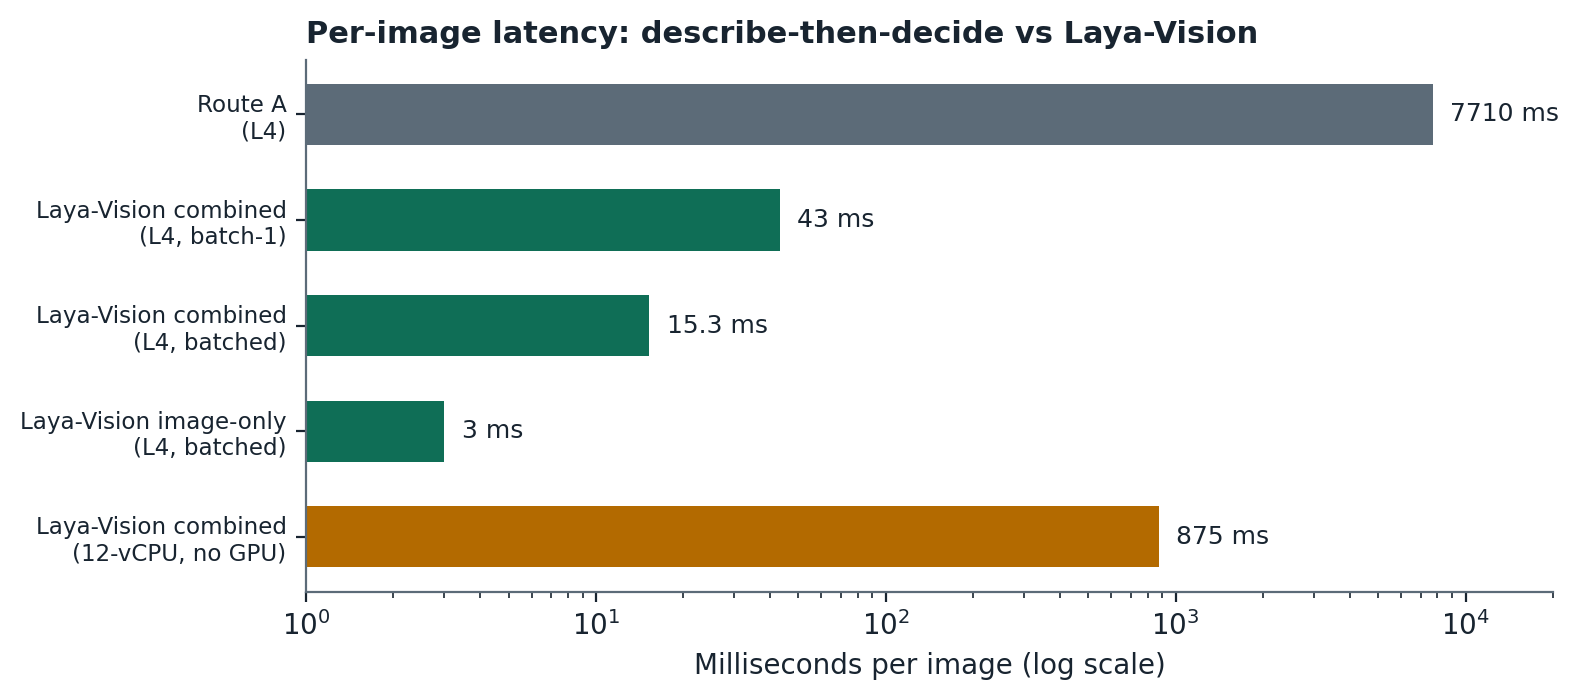
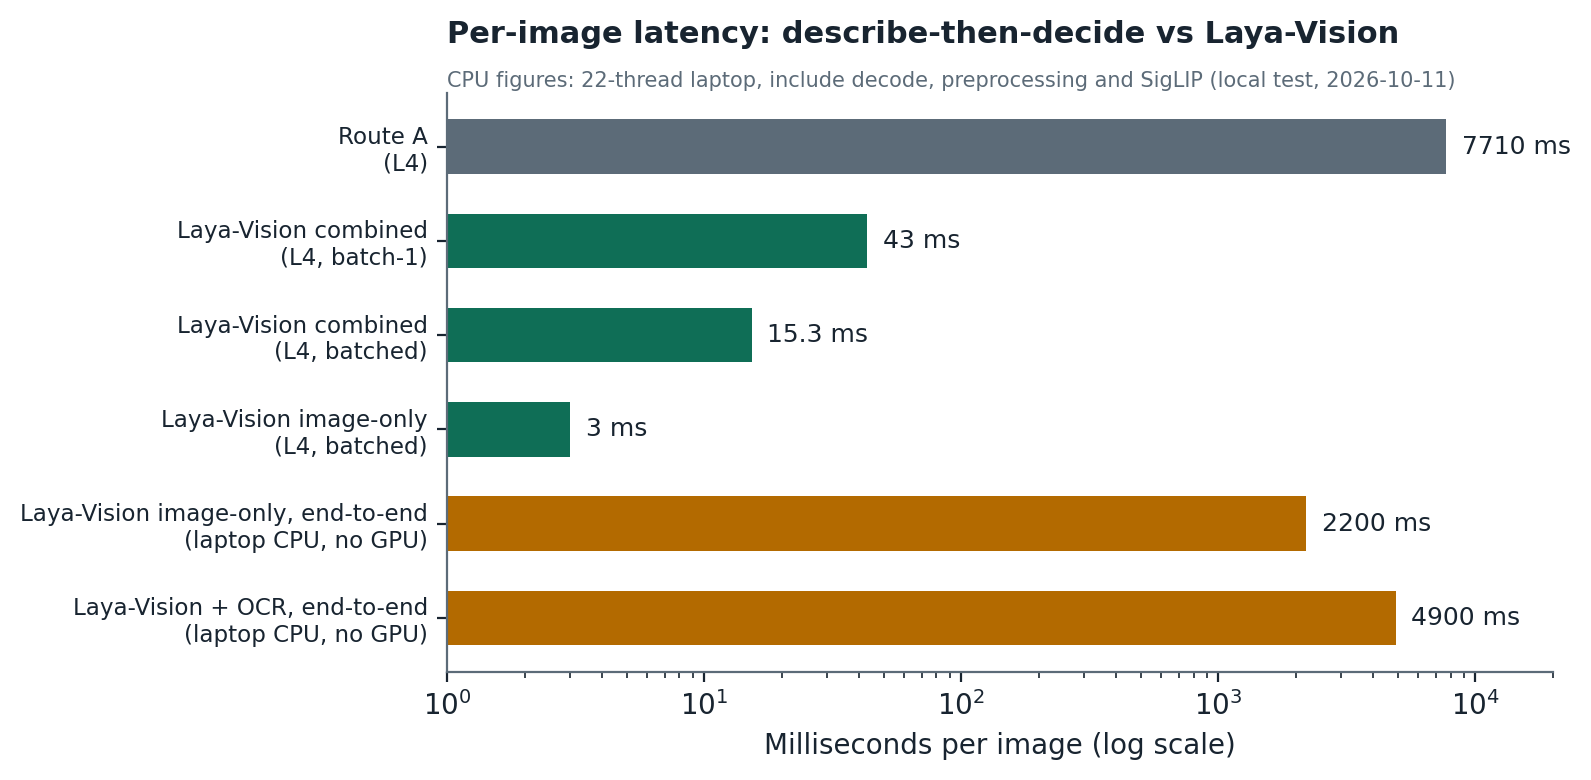
p5: local test recorded, cpu latency corrected, demo flush

diff --git a/scripts/demo.py b/scripts/demo.py
@@ -62,7 +62,7 @@ def main():
         with open(out, encoding="utf-8") as f:
             results = {r["file"]: r for r in json.load(f)["results"] if "doc_type" in r}
     todo = [p for p in files if p.relative_to(folder).as_posix() not in results]
-    print(f"{len(files)} images, {len(files) - len(todo)} already in {out}; classifying {len(todo)}.")
+    print(f"{len(files)} images, {len(files) - len(todo)} already in {out}; classifying {len(todo)}.", flush=True)
 
     agent = VisionAgent(release_dir=args.release, device=args.device)
     questions = agent.doc_type_question()
@@ -78,14 +78,14 @@ def main():
         except ImageError as e:
             errors += 1
             results[rel] = {"file": rel, "error": str(e)}
-            print(f"{rel}: ERROR {e}")
+            print(f"{rel}: ERROR {e}", flush=True)
             continue
         ans = res["answers"]["doc_type"]
         results[rel] = {"file": rel, "doc_type": ans["choice"], "probability": ans["probabilities"][ans["choice"]],
                         "probabilities": ans["probabilities"], "view": res["usage"]["view"],
                         "truncated": res["usage"]["truncated"],
                         "ms": round((time.perf_counter() - t0) * 1000, 1)}
-        print(f"{rel}: {ans['choice']} ({ans['probabilities'][ans['choice']]:.3f})")
+        print(f"{rel}: {ans['choice']} ({ans['probabilities'][ans['choice']]:.3f})", flush=True)
         if i % 50 == 0:
             write_json_atomic(out, {"meta": meta, "results": list(results.values())})
     write_json_atomic(out, {"meta": meta, "results": [results[k] for k in sorted(results)]})

diff --git a/README.md b/README.md
@@ -5,7 +5,7 @@
 model that returns typed, calibrated decisions instead of text) with an image
 input channel. Give it a scanned page and a typed question — a choice from a list,
 a score on a scale, or a yes/no probability — and it answers in ~15 ms per page on
-a modest GPU, or about a second on CPU, with a confidence you can set policy
+a modest GPU, or ~2.2 s end-to-end on a laptop CPU, with a confidence you can set policy
 against. The shipped task is 16-class document-type classification on RVL-CDIP:
 **86.2% test accuracy, calibration error 0.015**, versus 51% for the obvious
 describe-the-image-then-decide alternative at ~500× the GPU cost.
@@ -25,7 +25,8 @@ experiment and result recorded in this repository.
   letter, form, email, handwritten, advertisement, scientific report, scientific
   publication, specification, file folder, news article, budget, invoice,
   presentation, questionnaire, resume, memo), with calibrated confidence.
-- Fast: ~15 ms/page batched on an L4, ~43 ms single, ~1 s on CPU.
+- Fast: ~15 ms/page batched on an L4, ~43 ms single, ~2.2 s end-to-end on a
+  laptop CPU (~5 s with OCR).
 - Accepts image only, text only, or both. **Image-only is recommended** — OCR text
   adds under 0.5 points and costs 5× the batched latency.
 - You can ask new typed questions at request time without retraining — but
@@ -70,7 +71,7 @@ All numbers from a single pre-registered evaluation
 
 | System | Data | Accuracy | ECE (cal.) | Latency / image |
 |---|---|---|---|---|
-| **Laya-Vision, combined** | test, 5,000 | **0.862** | 0.015 | 15.3 ms batched · 43 ms batch-1 (L4) · 875 ms CPU |
+| **Laya-Vision, combined** | test, 5,000 | **0.862** | 0.015 | 15.3 ms batched · 43 ms batch-1 (L4) · ~2.2 s CPU end-to-end¹ |
 | Laya-Vision, image-only | test, 5,000 | 0.858 | 0.014 | 3.0 ms batched · 42 ms batch-1 (L4) |
 | Laya-Vision, text-only (OCR) | test, 5,000 | 0.291 | 0.034 | 15.6 ms batched |
 | Laya-Vision, combined | same 1,000 test ids as Route A | 0.873 | — | — |
@@ -79,6 +80,11 @@ All numbers from a single pre-registered evaluation
 | Route A | val comparison set, 2,000 | 0.501 | — | 7,600 ms |
 | Frozen SigLIP 1-NN (no training) | val, 5,000 | 0.756 | — | — |
 | Majority class | — | 0.064 | — | — |
+
+¹ CPU: ~2.2 s per page end-to-end on a laptop CPU (22 logical CPUs; decode + preprocessing + SigLIP + forward), ~5 s with OCR. The 875 ms figure in docs/final/ is the Laya forward alone over precomputed embeddings on a 12-vCPU Colab host. GPU latencies are the model forward over precomputed embeddings
+(batched, L4).
+
+Local CPU verification of the shipped release on the 1,000-image test subsample: image-only accuracy 0.864 (matches the L4), 0 errors, calibration monotone, no network access after the one-off SigLIP download.
 
 ![Headline accuracy](docs/figures/fig1_accuracy.png)
 ![Latency](docs/figures/fig2_latency.png)
@@ -178,6 +184,8 @@ image; greyscale or colour; any size or aspect ratio (letterboxed to 384×384
 internally, OCR runs on the original). PDFs must be rendered to images first
 (e.g. `pdf2image` or `pypdfium2` at ~150 dpi). Multi-page TIFFs: first page only.
 Images whose long side is below ~384 px are upscaled and lose detail.
+OCR (`--with-ocr` / `ocr=True`): the SDK warns when the local Tesseract version
+differs from training's 5.3.4; text may differ slightly.
 
 ---
 
@@ -191,6 +199,8 @@ Images whose long side is below ~384 px are upscaled and lose detail.
   letter (0.78), questionnaire (0.79), presentation (0.81) on the val comparison
   set — the report/publication, form/questionnaire and letter/memo/email
   neighbourhoods. Strongest: email (0.97), resume (0.93), advertisement (0.92).
+- **Per-class figures are indicative:** specification scored 0.758 image-only on the 1,000-image test subsample (0.873 image-only, 0.897 combined on the val comparison set) - per-class accuracy varies by sample; treat per-class figures as indicative.
+- **CPU latency:** ~2.2 s per page end-to-end on a laptop CPU (22 logical CPUs; decode + preprocessing + SigLIP + forward), ~5 s with OCR. The 875 ms figure in docs/final/ is the Laya forward alone over precomputed embeddings on a 12-vCPU Colab host.
 - **Domain:** RVL-CDIP vintage, greyscale, ~90 dpi. Validate before use on modern
   documents.
 - **Accuracy ceiling:** ~2% label noise + ~1.5% illegible pages in the training

diff --git a/docs/MODEL_CARD.md b/docs/MODEL_CARD.md
@@ -40,7 +40,7 @@ typed, calibrated decisions — a choice from a list, a score on a scale, or a y
 probability — rather than text. Laya-Vision lets it make those decisions about a
 scanned document image. The shipped task is 16-class document-type classification
 on RVL-CDIP: **86.2% accuracy, calibration error 0.015, ~15 ms per page on an L4,
-under a second on CPU.**
+~2.2 s per page end-to-end on a laptop CPU.**
 
 Code, training history and evaluation protocol: https://github.com/savita10/laya-vision
 
@@ -110,7 +110,8 @@ print(ans["choice"], ans["probabilities"][ans["choice"]])
 **Input formats:** any Pillow-readable raster (PNG/JPEG/TIFF/BMP/WebP), path or
 PIL image, greyscale or colour, any size (letterboxed to 384×384 internally; OCR
 on the original). Render PDFs to images first (~150 dpi). Multi-page TIFF: first
-page only. The optional combined view needs Tesseract installed.
+page only. The optional combined view needs Tesseract installed; the SDK warns when
+the local Tesseract version differs from training's 5.3.4 (text may differ slightly).
 
 ## Release contents
 
@@ -178,9 +179,14 @@ a pre-registered 1,000-image test subsample.
 
 | View | Test acc. (5,000) | ECE raw → cal. | Latency / image |
 |---|---|---|---|
-| combined | **0.862** | 0.029 → 0.015 | 15.3 ms batched · 43 ms batch-1 (L4) · 875 ms CPU |
+| combined | **0.862** | 0.029 → 0.015 | 15.3 ms batched · 43 ms batch-1 (L4) · ~2.2 s CPU end-to-end¹ |
 | image-only | 0.858 | 0.020 → 0.014 | 3.0 ms batched · 42 ms batch-1 (L4) |
 | text-only | 0.291 | 0.034 (T=1) | 15.6 ms batched |
+
+¹ CPU: ~2.2 s per page end-to-end on a laptop CPU (22 logical CPUs; decode + preprocessing + SigLIP + forward), ~5 s with OCR. The 875 ms figure in docs/final/ is the Laya forward alone over precomputed embeddings on a 12-vCPU Colab host. GPU latencies are the model forward over precomputed embeddings
+(batched, L4).
+
+Local CPU verification of the shipped release on the 1,000-image test subsample: image-only accuracy 0.864 (matches the L4), 0 errors, calibration monotone, no network access after the one-off SigLIP download.
 
 Same 1,000 test ids: Laya-Vision 0.873 vs Route A 0.510 (7.7 GPU-s/image).
 Val comparison set (2,000): 0.847 vs Route A 0.501. Majority class 0.064.
@@ -216,6 +222,8 @@ leaderboard scores partly fit noise.
   neighbourhood where image-only beats combined.
 - Weak on visually similar classes (report/publication, form/questionnaire,
   letter/memo/email).
+- Per-class accuracy: specification scored 0.758 image-only on the 1,000-image test subsample (0.873 image-only, 0.897 combined on the val comparison set) - per-class accuracy varies by sample; treat per-class figures as indicative.
+- CPU latency: ~2.2 s per page end-to-end on a laptop CPU (22 logical CPUs; decode + preprocessing + SigLIP + forward), ~5 s with OCR. The 875 ms figure in docs/final/ is the Laya forward alone over precomputed embeddings on a 12-vCPU Colab host.
 - Domain-bound to RVL-CDIP-like scans; validate before any other use.
 - Results are on a 5,000-image stratified subsample of the 40,000-image test
   split (full evaluation planned for v1.1).

diff --git a/DECISIONS.md b/DECISIONS.md
@@ -889,3 +889,48 @@ same terms as the Route A test exception (2026-10-10):
 
 The script also exports the val comparison set
 (splits/val_comparison_2000_seed11.json); no exception is needed for val.
+
+## 2026-10-11 — Local pre-release test; CPU latency corrected
+The shipped release (release/, run02_final) was tested locally on CPU
+before upload. Report: local_test/REPORT.md (not committed).
+- Machine: Windows 11 laptop, 22 logical CPUs, torch 2.14.1+cpu with 16
+  threads, laya 0.3.24, transformers 4.49.0.
+- Data: the pre-registered 1,000-image test subsample, exported with
+  scripts/export_images.py (exception 2026-10-11). Its ids equal
+  splits/test_comparison_1000_seed17.json.
+
+Results:
+- tests/test_sdk_equivalence.py --release release: all 8 checks pass.
+- demo.py, image-only: accuracy 0.864 on 1,000 images, 0 errors. This
+  equals the L4's image-only result on the same ids.
+- Calibration: accuracy is monotone across probability buckets:
+  - < 0.5: 0.378
+  - 0.5–0.7: 0.673
+  - 0.7–0.9: 0.825
+  - 0.9+: 0.967
+- Edge cases behaved as specified.
+- demo.py resumed correctly after a SIGKILL.
+- --with-ocr ran with Tesseract 5.4.0 (training used 5.3.4; the
+  eng.traineddata is identical): 0.84 combined vs 0.86 image-only on the
+  same 100 images, within noise.
+- Under a socket guard, no SDK process attempted any network access. The
+  one-off SigLIP download was the only network access.
+
+Latency correction (human decision):
+- The docs' "~1 s on CPU" / "875 ms CPU" understated end-to-end CPU
+  latency. Measured batch-1, end to end (decode + preprocessing + SigLIP
+  + forward) on the laptop: mean 2,200 ms, p50 2,126 ms, of which SigLIP
+  and preprocessing take ~1.17 s. With OCR: ~5 s.
+- The 875 ms in docs/final/ is the Laya forward alone over precomputed
+  embeddings, on a 12-vCPU Colab host.
+- README.md and docs/MODEL_CARD.md now give ~2.2 s end to end (~5 s with
+  OCR), and explain the 875 ms in a results footnote and in Limitations.
+- docs/figures/fig2_latency.png was replaced with the corrected figure.
+
+Also added:
+- Limitations note: specification scored 0.758 image-only on the test
+  subsample (0.873 image-only, 0.897 combined on the val comparison set),
+  so per-class figures are indicative.
+- A Tesseract version-warning note in both docs.
+- demo.py now prints progress with flush=True, so piped logs survive a
+  kill.
